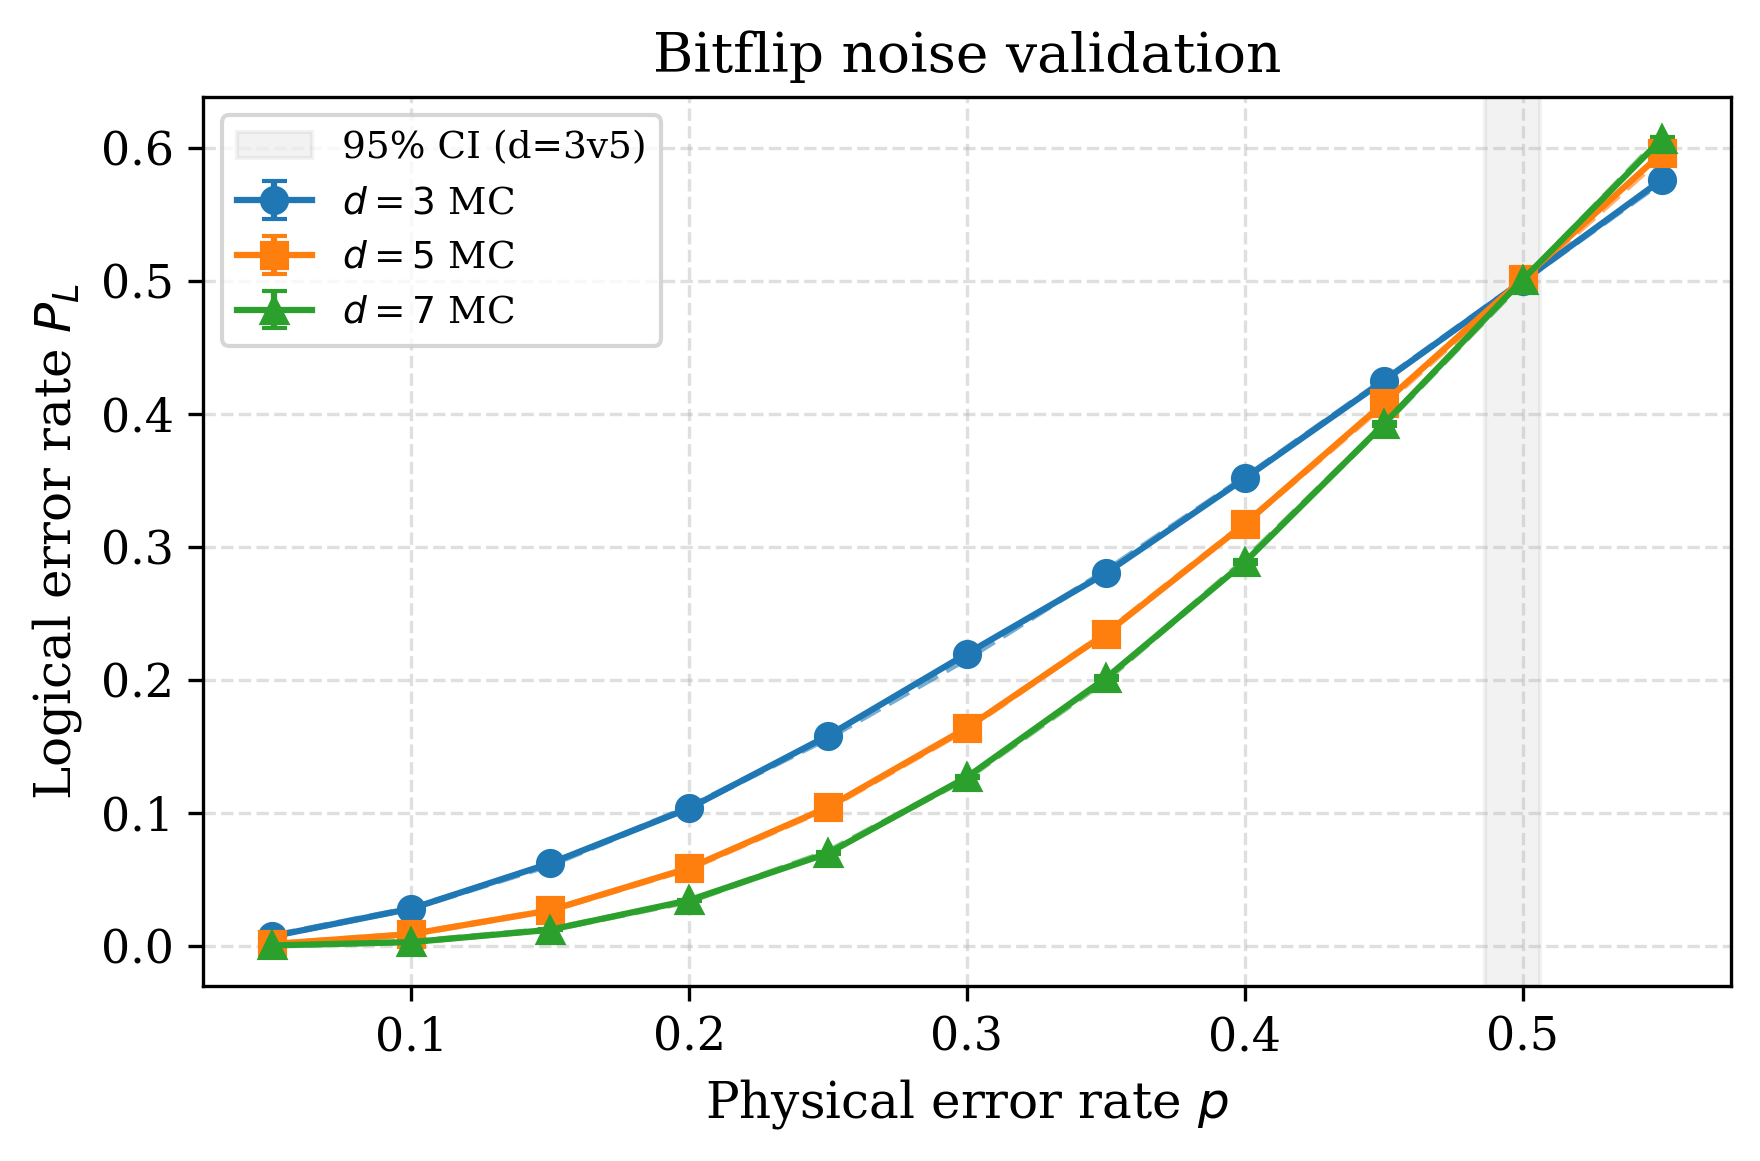
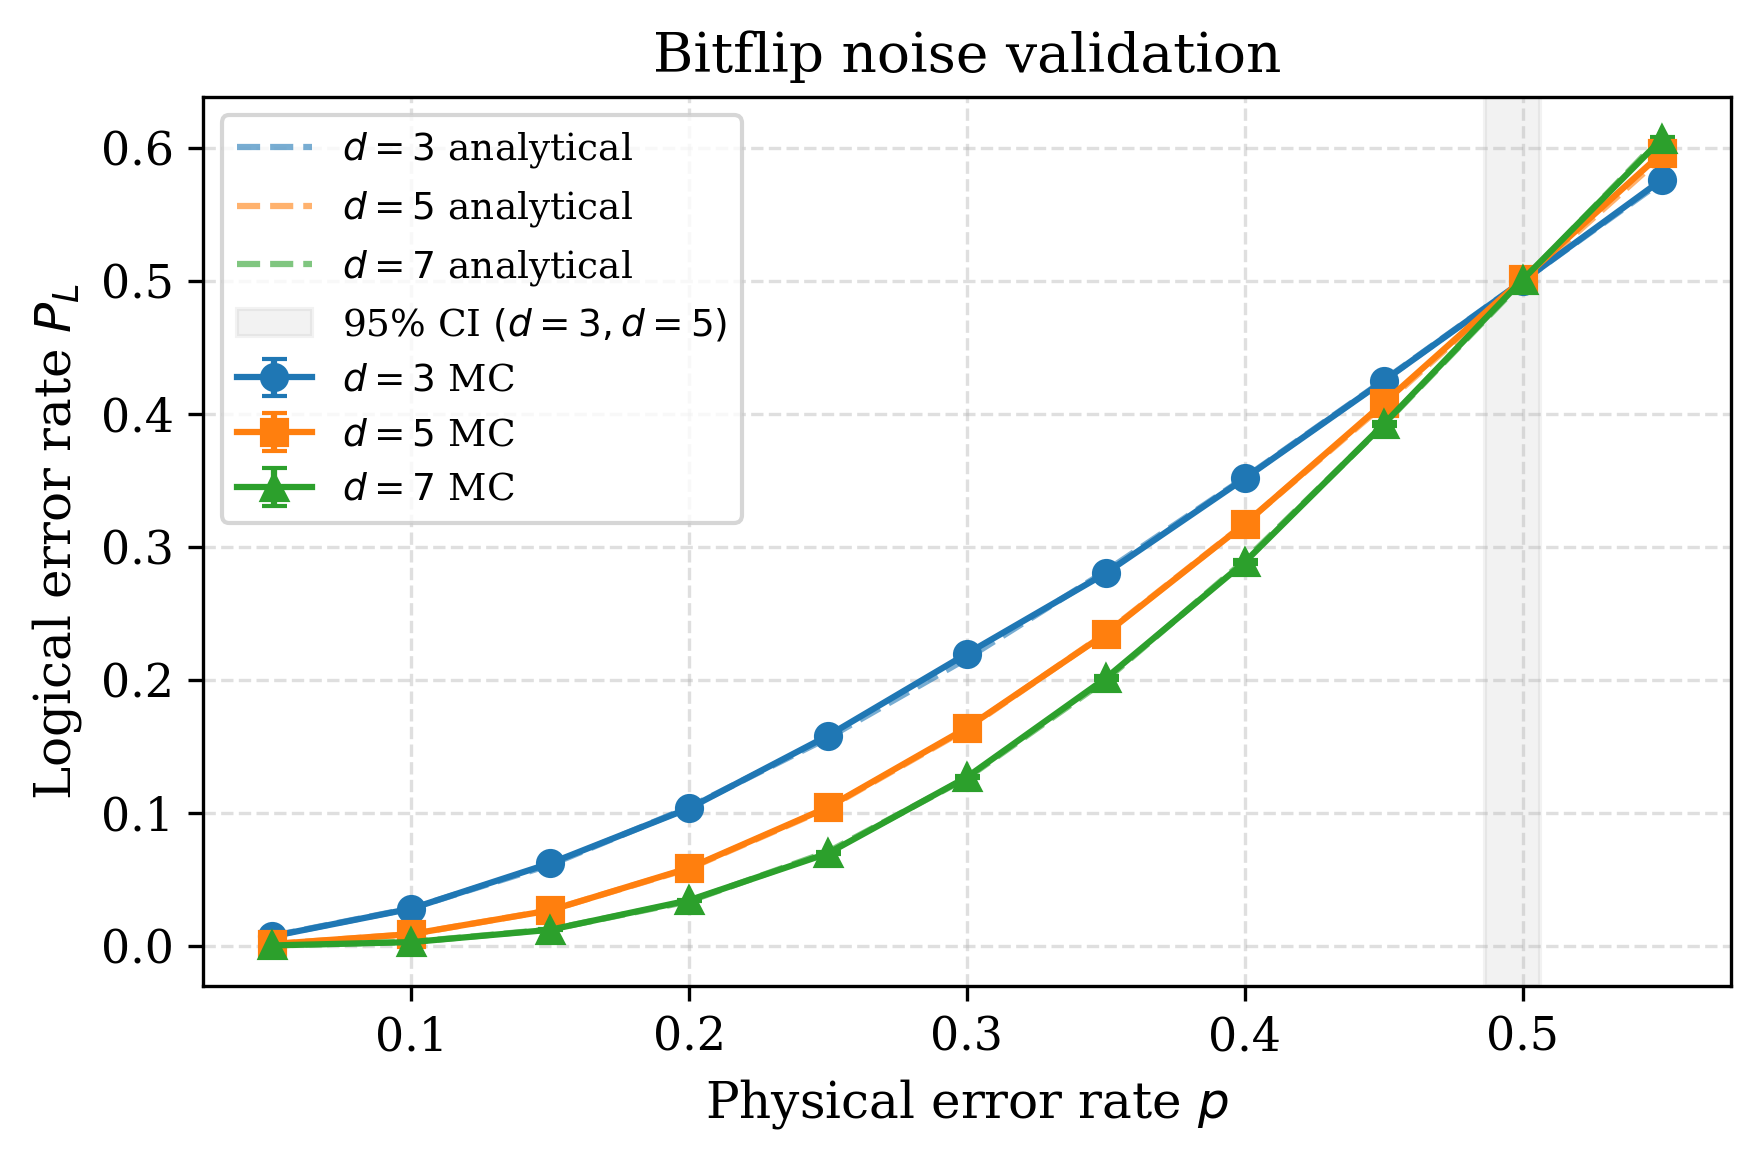
fix up fig 1

Changed region(s): [[0.125, 0.093, 0.4375, 0.4651]]

diff --git a/src/figures.py b/src/figures.py
@@ -30,11 +30,12 @@ for d in distances:
     analytical = [analytical_logical_error(d, p) for p in x]
     ax.errorbar(x, y, yerr=err, marker=markers[d], color=colors[d],
                capsize=3, label=f"$d={d}$ MC", linewidth=1.5, markersize=6)
-    ax.plot(x, analytical, linestyle="--", color=colors[d], alpha=0.6)
+    ax.plot(x, analytical, linestyle="--", color=colors[d], alpha=0.6,
+        label=f"$d={d}$ analytical")
 for pair, val in ci_bf.items():
     if val is not None and pair == (3, 5):
         ax.axvspan(val["lower"], val["upper"], alpha=0.1, color="gray",
-                  label="95% CI (d=3v5)")
+                  label=r"95% CI $(d=3,d=5)$")
 ax.set_xlabel("Physical error rate $p$")
 ax.set_ylabel("Logical error rate $P_L$")
 ax.set_title("Bitflip noise validation")
@@ -65,14 +66,19 @@ for ax, c in zip(axes, c_list):
     for pair, val in ci.items():
         if val is not None and pair == (3, 5):
             ax.axvspan(val["lower"], val["upper"], alpha=0.12, color="gray")
-    #annotate crossing for c=0.5 where it's hardest to see
-    if c == 0.5:
-        ax.axvline(crossings[c], color="black", linestyle=":", linewidth=1.2, alpha=0.7)
-        ax.annotate(f"$p^* = {crossings[c]}$",
-                   xy=(crossings[c], 0.35),
-                   xytext=(crossings[c] + 0.07, 0.28),
-                   fontsize=9, color="black",
-                   arrowprops=dict(arrowstyle="->", color="black", lw=1.0))
+#annotate crossing in each correlated-noise panel
+    ann_y = {0.1: 0.43, 0.3: 0.38, 0.5: 0.35}
+    text_y = {0.1: 0.32, 0.3: 0.30, 0.5: 0.28}
+
+    ax.axvline(crossings[c], color="black", linestyle=":", linewidth=1.2, alpha=0.7)
+    ax.annotate(
+        f"$p^* = {crossings[c]}$",
+        xy=(crossings[c], ann_y[c]),
+        xytext=(crossings[c] + 0.04, text_y[c]),
+        fontsize=9,
+        color="black",
+        arrowprops=dict(arrowstyle="->", color="black", lw=1.0),
+    )
     ax.set_title(f"$c = {c}$")
     ax.set_xlabel("Physical error rate $p$")
     ax.grid(True, linestyle="--", alpha=0.4)
@@ -100,9 +106,9 @@ ax.errorbar(c_vals, t35, yerr=err35, fmt="o-", color="#1f77b4",
 ax.errorbar(c_vals, t57, yerr=err57, fmt="s--", color="#ff7f0e",
            capsize=4, linewidth=2.0, markersize=7, label=r"$d=5$ vs $d=7$")
 ax.axhline(bf35, color="#1f77b4", linestyle=":", linewidth=1.2,
-          alpha=0.5, label="Bitflip baseline (d=3v5)")
+          alpha=0.5, label=r"Bitflip baseline $(d=3,d=5)$")
 ax.axhline(bf57, color="#ff7f0e", linestyle=":", linewidth=1.2,
-          alpha=0.5, label="Bitflip baseline (d=5v7)")
+          alpha=0.5, label=r"Bitflip baseline $(d=5,d=7)$")
 ax.set_xlabel("Correlation strength $c$")
 ax.set_ylabel(r"Pseudo-threshold $p^*$")
 ax.set_title("Pseudo-threshold vs correlation strength")
